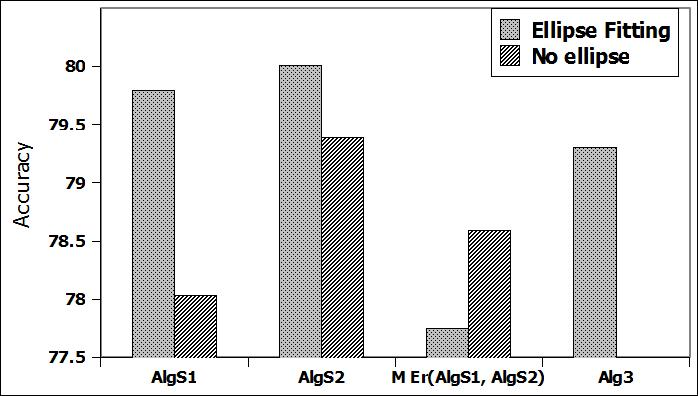
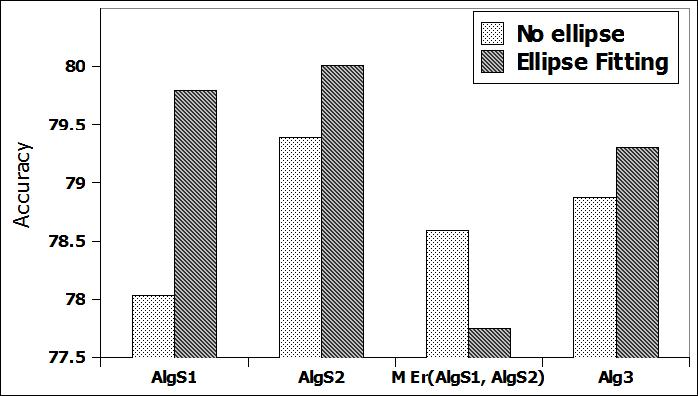
after all editin gis done

diff --git a/paper2/Paper2.tex b/paper2/Paper2.tex
@@ -114,7 +114,7 @@ In this paper, we choose to implement a hybrid method between shape property, gu
 \section{Literature Review}
 \label{sec:review}
 
-Yu \cite{meanshift10} introduced a \textit{feature area} for each primitive and then computed the segmentation error for different types of primitives based on the computed \textit{feature area}. His system achieved good accuracy in simple shapes (square, ellipse,...etc) but did not perform well in complex shapes. A hybrid algorithm was introduced in \cite{earlyprocess} where different sets of segments are generated based on both curvature and speed dominant points, followed by choosing a segmentation with the least error from a generated hybrid set. However, this system is limited to recognizing only specific simple geometric shapes with a set of low level recognizers. Each low level recognizer is designed to recognize only one geometric shape using spatial and geometric information extracted from input stroke. 
+Yu \cite{meanshift10} introduced a \textit{feature area} for each primitive and then computed the segmentation error for different types of primitives based on the computed \textit{feature area}. His system achieved good accuracy in simple shapes (square, ellipse,...etc) but did not perform well in complex shapes. A hybrid algorithm was introduced in \cite{earlyprocess}\footnote{Alg3 used in Section \ref{sec:Experiments} } where different sets of segments are generated based on both curvature and speed dominant points, followed by choosing a segmentation with the least error from a generated hybrid set. However, this system is limited to recognizing only specific simple geometric shapes with a set of low level recognizers. Each low level recognizer is designed to recognize only one geometric shape using spatial and geometric information extracted from input stroke. 
 
 A genetic algorithm was used by \cite{CruveDivisionSwarm} to optimally divide digital curves into lines and curves. Chen et al. \cite{CruveDivisionSwarm} uses digital curves scanned from paper as input to the system. However, they did not take the advantage of the curvature or local geometric properties of the digital curve. Yin \cite{PolygonApproximationPSO} used PSO to convert digital curves into polygons. Our system adopts  Yin \cite{PolygonApproximationPSO} method and tries to improve it by adding curvature and other local information while segmenting strokes to achieve better segmentations. The next section presents the general particle swarm algorithm which is used in this system.
 
@@ -387,8 +387,8 @@ In our experiment we used three different datasets. The first dataset (Figure \r
 
 \begin{table}
 \begin{center}
-\scalebox{0.9}{
- \begin{tabular}{|p{2cm}|p{1.5cm}|p{1.5cm}|p{1.5cm}|}
+\scalebox{0.8}{
+ \begin{tabular}{|p{3cm}|p{1.5cm}|p{1.5cm}|p{1.5cm}|}
  \hline
  & Hs-DS &  EL-DS & LD-DS \\ \hline
 No of samples  &  7791 & 2764 & 1859 \\ \hline
@@ -414,68 +414,67 @@ A set of tests were performed on the system to enhance non-ellipse fitting algor
     
  \begin{figure}
 	\centering		
-	 \includegraphics[scale=0.3]{images/swarmAgentTest.jpg}
-	 	\caption{Segmentation Error Vs. Number of particles} The error decrease as the number of particle increase.  
-	 	\label{fig:swarmtesting}
+	 	\subfigure[Segmentation Error Vs. Number of particles]{	\label{fig:swarmtesting} \includegraphics[scale=0.3]{images/swarmAgentTest.jpg}}
+	 %	\caption{} 
+	 
 	%\caption{Experiments results :} a)    b) c) 
-\end{figure} 
+	%\end{figure} 
 
-\begin{figure}
-	\centering		
-	 \includegraphics[scale=0.4]{images/swarmParamterC.jpg}
-	 	\caption{Segmentation Error Vs. PSO parameters.} The behaviour of segmentation error versus c1. 
-	 	\label{fig:swarmtesting2}
-	%\caption{Experiments results :} a)    b) c) 
+%\begin{figure}
+	%\centering		
+		\subfigure[Segmentation Error Vs. PSO parameters.]{	\label{fig:swarmtesting2}  \includegraphics[scale=0.4]{images/swarmParamterC.jpg}}
+	 	\caption{}a) The error decrease as the number of particle increase.   b) The behaviour of segmentation error versus c1. 
+	 
+	%\Segmentation Error Vs. PSO parameters.caption{Experiments results :} a)    b) c) 
 	
 \end{figure} 
 \subsection{Algorithms comparisons}
 \label{sec:AlgExp}
-We performed several experiments to evaluate the presented recognition system. Firstly, we tested recognition accuracy of shapes in the data set with both algorithms (\textsl{AlgS1} and \textsl{AlgS2}). We also implemented the segmentation algorithm described in \cite{earlyprocess} (\textsl{Alg3}) to use as reference to compare it with our swarm algorithms. Figure \ref{fig:test1} and \ref{fig:testLD} shows the accuracy achieved by each algorithm. The two swarm algorithms were tested with and without the ellipse fitting module. Combining the ellipse detection module improves the performance. The result shows that combining both (\textsl{AlgS1} and \textsl{AlgS2}) out perform any single algorithm. %show that combining algoirthmsachieve higher accuracy than any single algoirthm. 
+We performed several experiments to evaluate the presented recognition system. Firstly, we tested recognition accuracy of shapes in the data set with both algorithms (\textsl{AlgS1} and \textsl{AlgS2}). We also implemented the segmentation algorithm described in \cite{earlyprocess} (\textsl{Alg3}) to use as reference to compare it with our swarm algorithms. Figure \ref{fig:test1} and \ref{fig:testLD} shows the accuracy achieved by each algorithm. The two swarm algorithms were tested with and without the ellipse fitting module. Combining the ellipse detection module improves the performance. The result shows that (\textsl{AlgS2}) gives better performance than Alg3 and AlgS1 in all datasets.  The results also shows that combineing  (\textsl{AlgS1} and \textsl{AlgS2} using minimum error) outperforme AlgS2 in Hs-Ds only. This behaviour is explained by noticing that features are computed based on the choosen segmentation. This means that different segmentation for a symbol generates different set of features used for recognition. This behaviour affect Ls-Ds and EL-Ds more than Hs-Ds due to the higher topological and structure symbols in both datasets than than of Hs-Ds.  %   can be explained by the simplicity of the symbols in Hs-DS % and LD-Ds unlike EL-DS where AlgS2 is the best algorithm. This behaviour is explained by the structure of the symbols in each dataset. El-DS consist of highly topological and structure symbols that are usaually drawn using multiple small strokes. This leads to    %   out perform any single algorithm in HS-DS and LD-DS.  %show that combining algoirthmsachieve higher accuracy than any single algoirthm. 
 %improves the results.% with both the \textit{DPSO} algorithms.% The results show that both \textit{DPSO} algorithms achieve better result than other algorithms. 
 
- \begin{figure}
+ \begin{figure}[h]
 	\centering		
-	 \includegraphics[scale=0.4]{images/testAlg.jpg}
-	 	\caption{Algorithm comparison on HS-DS} The recognition rate of different algorithms. 
-	 	\label{fig:test1}
+	\subfigure[Algorithm comparison on HS-DS]{\label{fig:test1} \includegraphics[scale=0.4]{images/testAlg.jpg}}
+	 %	\caption{} The recognition rate of different algorithms. 
+	 	
 	%\caption{Experiments results :} a)    b) c) 
-\end{figure} 
+%\end{figure} 
 
 
 
 
-\begin{figure}
-	\centering		
-	 \includegraphics[scale=0.4]{images/LDAlg.jpg}
-	 	\caption{Algorithm comparison on LD-DS} The recognition rate of different algorithms. 
-	 	\label{fig:testLD}
+%\begin{figure}[h]
+%	\centering		
+		\subfigure[Algorithm comparison on LD-DS]{ 	 	\label{fig:testLD} \includegraphics[scale=0.4]{images/LDAlg.jpg}}
+	% 	\caption{} The recognition rate of different algorithms. 
+
 	%\caption{Experiments results :} a)    b) c) 
-\end{figure} 
+%\end{figure} 
 
-\begin{figure}
-	\centering		
-	 \includegraphics[scale=0.4]{images/AlgEL.jpg}
-	 	\caption{Algorithm comparison on EL-DS} The recognition rate of different algorithms. 
-	 	\label{fig:testEL}
+%\begin{figure}[h]
+%	\centering		
+		\subfigure[Algorithm comparison on EL-DS]{	 	\label{fig:testEL}  \includegraphics[scale=0.4]{images/AlgE.jpg}}
+	 	\caption{ The recognition rate of different algorithms. }
+
 	%\caption{Experiments results :} a)    b) c) 
 \end{figure} 
 
 
 \subsection{Shape Complexity Analysis}
 \label{sec:ShapeComplexityExperiments}
-
 \begin{figure*}
-	\centering
-		\includegraphics[scale=0.5]{images/testsym.jpg}
-	\caption{Symbols Comparison on HS-DS} The effect of symbol complexity.  %The graph shows the recognition rate of each symbol using different algorithms. 
-	\label{fig:test2}
-\end{figure*}  
-
-\begin{figure*}
-	\centering
-		\includegraphics[scale=0.5]{images/LDsymbols.jpg}
-	\caption{Symbols Comparison on LD-DS symbols}.  %The graph shows the recognition rate of each symbol using different algorithms. 
-	\label{fig:LDtest2}
+	\centering 
+		\subfigure[Symbols Comparison on HS-DS]{\label{fig:test2}
+		\includegraphics[scale=0.35]{images/testsym.jpg}}
+	%\caption{} The effect of symbol complexity.  %The graph shows the recognition rate of each symbol using different algorithms. 
+%\end{figure*}  
+%\begin{figure*}
+%	\centering
+\subfigure[Symbols Comparison on LD-DS symbols]{\label{fig:LDtest2}
+		\includegraphics[scale=0.5]{images/DLSymbols.jpg}}
+	%\caption{}.  %The graph shows the recognition rate of each symbol using different algorithms. 
+	\caption {Symbol Comparison} The accuarcy of achieved by each algorithm in each symbol. a) Low accuracy level appears in triangle, heart, and moon symbols. b) Low accuracy level appears only in symbols that are visually confusing (i.e Nor, OR, Nand gates). 
 \end{figure*}  
 The second experiment we implemented was to investigate the effect of symbol complexity and its type on the recognition rate. Figure \ref{fig:test2} and \ref{fig:LDtest2} show the achieved accuracy of each symbol by our algorithms compared to (\textsl{Alg3}) \cite{earlyprocess}. It is clearly noted that symbols that have only line segments achieve higher accuracy rate than other symbols (such as square, parallegram). The results also indicate that algorithm \textsl{AlgS1} achieves better performance than algorithm \textsl{AlgS2} in the symbols that consists only of lines. This is understandable because algorithm \textsl{AlgS1} divides strokes into line segments only but \textsl{AlgS2} is able to divide strokes into lines and curves based on the minimum error of the segment itself. Figure \ref{fig:LDtest2} shows that in logic design (LD-DS) \textsl{AlgS2} achieved better performance than \textsl{Alg3} and  \textsl{AlgS1}.  This proves that for complex shapes that are combination of lines and arcs are \textsl{AlgS2} acheives better segmentation. Algorithm \textsl{Alg3} gives good performance as long as the symbols consist of combination of lines and curves, if the stroke consists of curve or lines only the algorithm may lead to wrong segmentation result. This is because the system divides the stroke first into line segments then tries to decide whether each segment can be represented better as a curve. However, in \textsl{AlgS2} the curve segments are tested while choosing the best segmentation. Combining both algorithm \textsl{AlgS1} and \textsl{AlgS2} improved the recognition rate of all symbols. The penalty for this improved performance is the computational time required to run both swarm algorithms. Table \ref{tab:ConfusionMatrix} shows the confusion matrix for the (HS-DS) symbols. The table shows that errors occurs mostly between two sets of symbols: moon with triangles and trapezoid with triangles. This observation is understandable as the symbols are visually similar but the system must be able to differentiate between them. This leads us to the next experiment to choose the best set of feature to recognize symbols. 
 \begin{table*}
@@ -508,24 +507,25 @@ The second experiment we implemented was to investigate the effect of symbol com
 Different feature sets are tested to determine the best features that can be used in sketch and symbol recognition. Figure\ref{fig:testFeaturesAll} shows the result of using different feature sets (from the basic four sets \textbf{FS1,FS2,FS3,FS4} in Section \ref{sec:Recognition}). Results show that  geometerical features (\textbf{FS1}) and  Rubine features (\textbf{FS2}) \cite{gestureexample12} gives the low results when used alone without any other features. This is because they are mainly computed for single stroke gestures and fare bad in multi-stroke symbols \cite{compareFeaturSVM}. Features \textbf{(FS4)} gives good results and it is furthur improved by adding geometerical structural features \textbf{(FS1)}.
  \begin{figure*}
 	\centering
-		\includegraphics[scale=0.5]{images/featuresdifference.jpg}
-	\caption{Feature Comparison on Hs-DS accuracy} The effect of different features on accuracy.  %The graph shows the recognition rate of each symbol using different algorithms. 
-	\label{fig:testFeaturesAll}
-\end{figure*}  
+	\subfigure[Feature Comparison on Hs-DS]{	\label{fig:testFeaturesAll} \includegraphics[scale=0.5]{images/featuresdifference.jpg}}
+    %The graph shows the recognition rate of each symbol using different algorithms. 
+	
+%\end{figure*}  
 
 
- \begin{figure*}
-	\centering
-		\includegraphics[scale=0.34]{images/featELc.jpg}
-	\caption{Feature Comparison on EL-DS} The effect of different features on accuracy.  %The graph shows the recognition rate of each symbol using different algorithms. 
-	\label{fig:ELtestFeaturesAll}
+ %\begin{figure*}
+	%\centering 
+	
+	\subfigure[Feature Comparison on EL-DS]{	\label{fig:ELtestFeaturesAll}	\includegraphics[scale=0.34]{images/FeatEl.jpg}}
+	\caption{Different Features } The effect of different feature set on accuracy.  FS4 and FS3 give good results in a) Hs-DS and b) EL-Ds. The results is improved by combining FS1 with FS2 and FS1 with FS4.    %The graph shows the recognition rate of each symbol using different algorithms. 
+
 \end{figure*}  
  We could not test the result of the segmentation algorithm alone due to the fact that the correct segmentation is hightly qualitative. It is only based on what the user intends to draw while sketching the symbol. 
- The main features affected by the segmentation stage are the geometric features computed in \textbf{FS1}. Hence those are the features we used to estimate the efficiency of the segmentation algorithm. The recognition accuracy using only the geometrical features is reported in Figure \ref{fig:testFeatonly} . The figure shows that \textsl{AlgS2} achieve better results.  %effect of the segmentation algorithm 
+ The main features affected by the segmentation stage are the geometric features computed in \textbf{FS1}. Hence those are the features we used to estimate the efficiency of the segmentation algorithm. The recognition accuracy using only the geometrical features is reported in Figure \ref{fig:testFeatonly}. The figure shows that \textsl{AlgS2} achieve better results.  %effect of the segmentation algorithm 
  %Figure \ref{fig:SampleSeg} shows a sample of the output of the segmentation block. The result of segmentation block is tested by their effect on the final recognition results using the features that will be highly affected using different algorithms like \textbf{FS1} and \textbf{FS4} (Section\ref{sec:Recognition}). Figure \ref{fig:testFeatonly} shows the result of the different algorithms using only \textbf{FS1 }features. 
 \begin{figure}
 	\centering
-		\includegraphics[scale=0.4]{images/featureFS1only.jpg}
+		\includegraphics[scale=0.3]{images/OnlyF1EL.jpg}
 	\caption{The effect of segmentation on Hs-DS accuracy} %The effect of symbol complexity.  %The graph shows the recognition rate of each symbol using different algorithms. 
 	\label{fig:testFeatonly}
 \end{figure}  
@@ -536,14 +536,14 @@ Different feature sets are tested to determine the best features that can be use
 		 	\subfigure[Segmented strokes] {\includegraphics[scale=0.7]{images/strokeafter.jpg}}
 		 		\subfigure[Multiple symbols] {\includegraphics[scale=0.7]{images/results3.jpg}}
 		
-	\caption{Segmentation outputs}  The output segmentation of different input strokes. %The figure shows sample of the output of the segmentation phase. Figure a) shows the stroke after the user draws it. The red points are points labeled as \textit{possible dominate points}. Figure b) shows the symbol after being segmented. Figure c) shows the segmentation of different and overlapped strokes. Notice the system mark the center of the ellipse that was identified.
+	\caption{Segmentation outputs}  The output segmentation of different input strokes. a) Sample of single input stroke b) The single stroke after segmentation. c) An example of multiple stroke and their segmentation. %The figure shows sample of the output of the segmentation phase. Figure a) shows the stroke after the user draws it. The red points are points labeled as \textit{possible dominate points}. Figure b) shows the symbol after being segmented. Figure c) shows the segmentation of different and overlapped strokes. Notice the system mark the center of the ellipse that was identified.
 	\label{fig:SampleSeg}
 \end{figure}
 
 \section{Conclusion and Future Work}
 \label{ConclusionandFutureWork}
 
-This paper presented a new approach to sketch recognition using PSO. The system uses both sthe peed and curvature information as input to the \textit{DPSO}. It is noted that the \textit{DPSO} in general generates an optimized stroke segmentation which improves the final recognition rate.  The tradeoff between accuracy achieved and time complexity can be further investigated to achieve better results. The final recognition is based on both global shape and hierarchical stroke properties. Adding stroke and segment geometrical features improved the final recognition. Global shape and moment properties were used to prevent the need to use graph matching which is computationally expensive \cite{SketchRead2007}. The system was tested on 13 different symbols and achieved an overall accuracy of 89.5\%. The system does not depend on low level recognizer but rather on a set of high level features. This makes the system easily expandable to more and more symbols. 
+This paper presented a new approach to sketch recognition using DPSO. The system uses multiple premilary information i.e., speed and curvature information, as input to the \textit{DPSO}. It is noted that the \textit{DPSO} in general generates an optimized stroke segmentation which improves the final recognition rate.  The tradeoff between accuracy achieved and time complexity can be further investigated to achieve better results. The final recognition is based on both global shape and hierarchical stroke properties. Adding stroke and segment geometrical features improved the final recognition. Global shape and moment properties were used to prevent the need to use graph matching which is computationally expensive \cite{SketchRead2007}. The experiments evaluated two\textit{DPSO} different segmenatation algorithms (AlgS1 and AlgS2) on three different datasets (Hs-Ds, EL-Ds and LD-Ds). Results show that AlgS2 achieves better segmentation  and final accuracy than Alg3 \cite{earlyprocess} on the datasets used. The results proved that the system is easily expandable to more and more symbols as it dose not depend on low level primitive recogniziers but on high level symbol and geometrical featuers.  The system achieved an overall improvement of more than 2\% over Alg3 in all datasets.  %The system was tested on 13 different symbols and achieved an overall accuracy of 89.5\%. The system does not depend on low level recognizer but rather on a set of high level features. This makes the system easily expandable to more and more symbols. 
 
  A possible extension of this research is to complete the clustering algorithm for fully automated sketch recognition. Currently, the system processes one symbol at a time, an enhancement would be to allow users to draw more than one symbol at a time and incorporate a method for separating symbols. Another area of enhancements is the features extraction methods. Introducing more spatial and geometrical features is believed to improve classifications. Features that represents the appearance of the symbols are likely to improve the recognition that have similar geometrical structure (i.e. Nand and And gate in logic symbols).  
  \bibliographystyle{elsarticle-harv} 

diff --git a/paper2/conf.tex b/paper2/conf.tex
@@ -3,7 +3,7 @@
 %%  This is a LaTeX2e table fragment exported from Gnumeric.        %%
 %%                                                                  %%
 %%%%%%%%%%%%%%%%%%%%%%%%%%%%%%%%%%%%%%%%%%%%%%%%%%%%%%%%%%%%%%%%%%%%%%
-	\scalebox{0.7}{  % this was taken from algfeat from  Results_17-04-2009_07-13
+	\scalebox{0.5}{  % this was taken from algfeat from  Results_17-04-2009_07-13
 			\begin{tabular}{|c|c|c|c|c|c|c|c|c|c|c|c|c|c|}\hline 
  Categories 	&ellipse	&heart	&trapezoid	&pentagon	&arch	&hexagon	&square	&triangle	&cube	&cylinder	&parallelogram	&moon	&callout\\ \hline 
 ellipse	&150	&20	&0	&0	&0	&5	&1	&0	&0	&0	&0	&1	&0\\  \hline 
